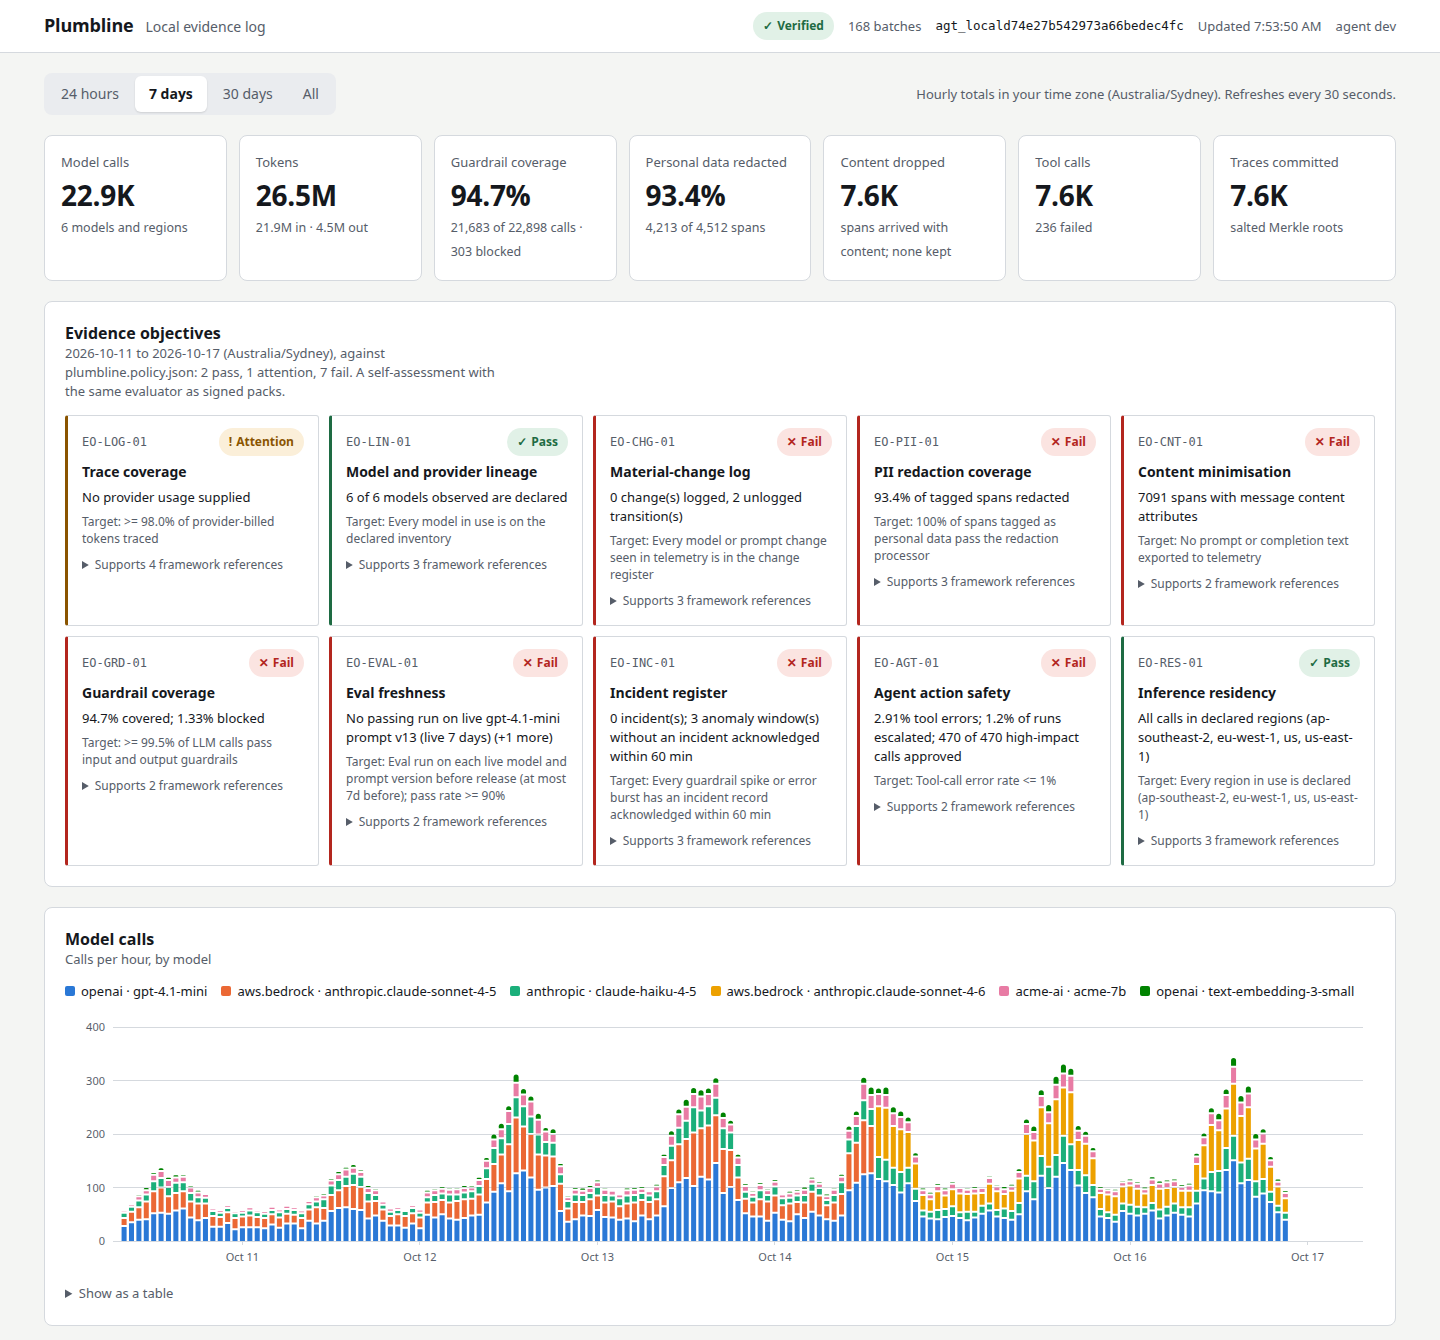
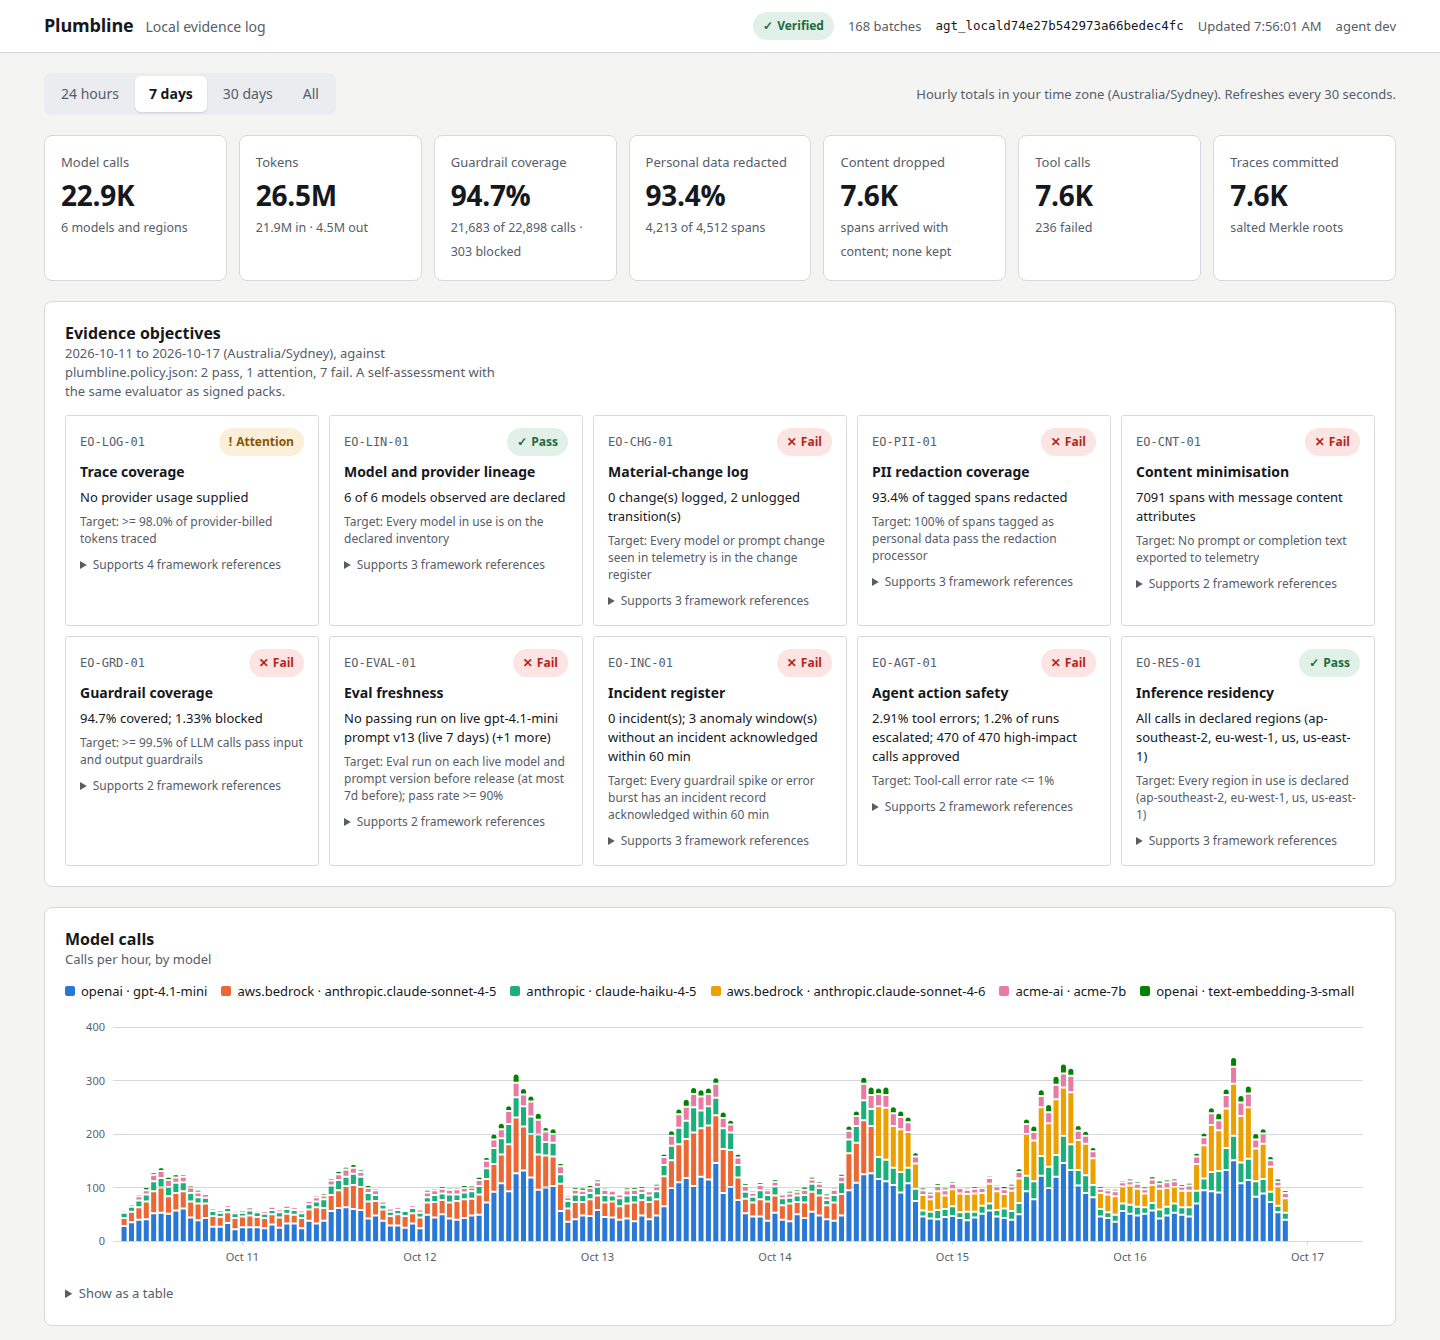
Dashboard: drop the side-tab borders on objective cards
The status pill (symbol and word) already carries each objective's status;
the coloured left border repeated it. Screenshots re-taken.

diff --git a/internal/dashboard/static/dashboard.css b/internal/dashboard/static/dashboard.css
@@ -98,9 +98,6 @@ main { max-width: 1400px; margin: 0 auto; padding: 20px 24px 48px; display: grid
 /* Evidence objectives */
 .obj-grid { display: grid; grid-template-columns: repeat(auto-fill, minmax(250px, 1fr)); gap: 10px; }
 .obj { border: 1px solid var(--hairline); border-radius: var(--radius-sm); padding: 12px 14px; display: grid; gap: 6px; align-content: start; background: var(--surface-raised); }
-.obj.fail { border-left: 3px solid var(--fail); }
-.obj.attention { border-left: 3px solid var(--attention); }
-.obj.pass { border-left: 3px solid var(--pass); }
 .obj .head { display: flex; justify-content: space-between; align-items: center; gap: 8px; }
 .obj .id { font-family: var(--font-mono); font-size: 12px; color: var(--ink-muted); }
 .obj h3 { font-size: 14px; line-height: 20px; margin: 0; font-weight: 650; }
